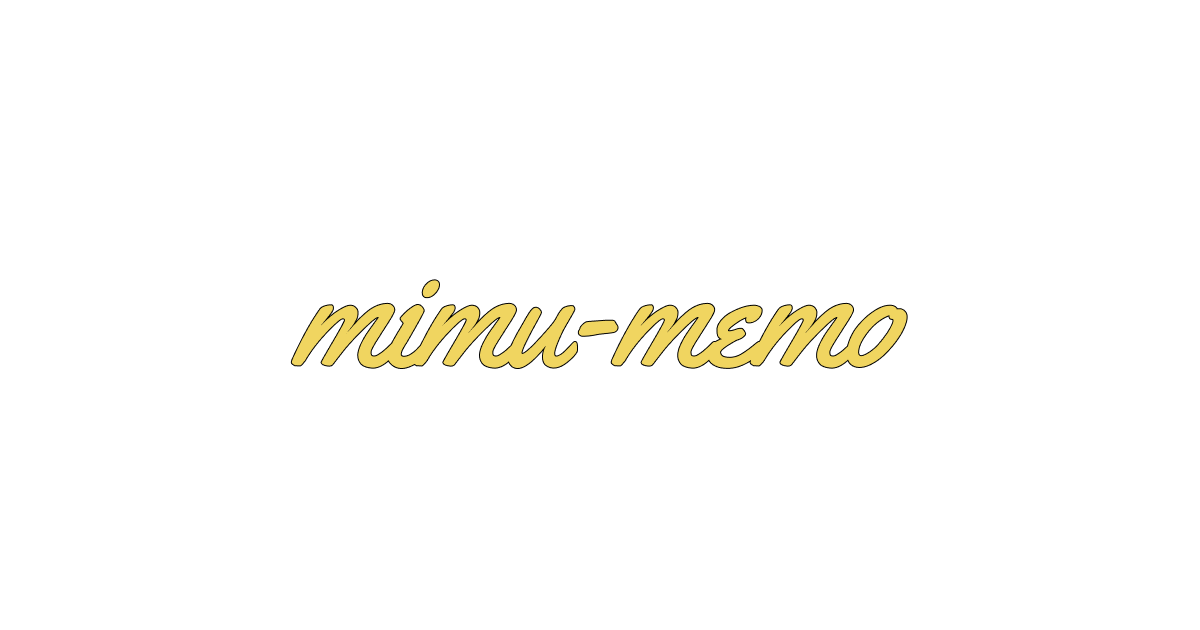
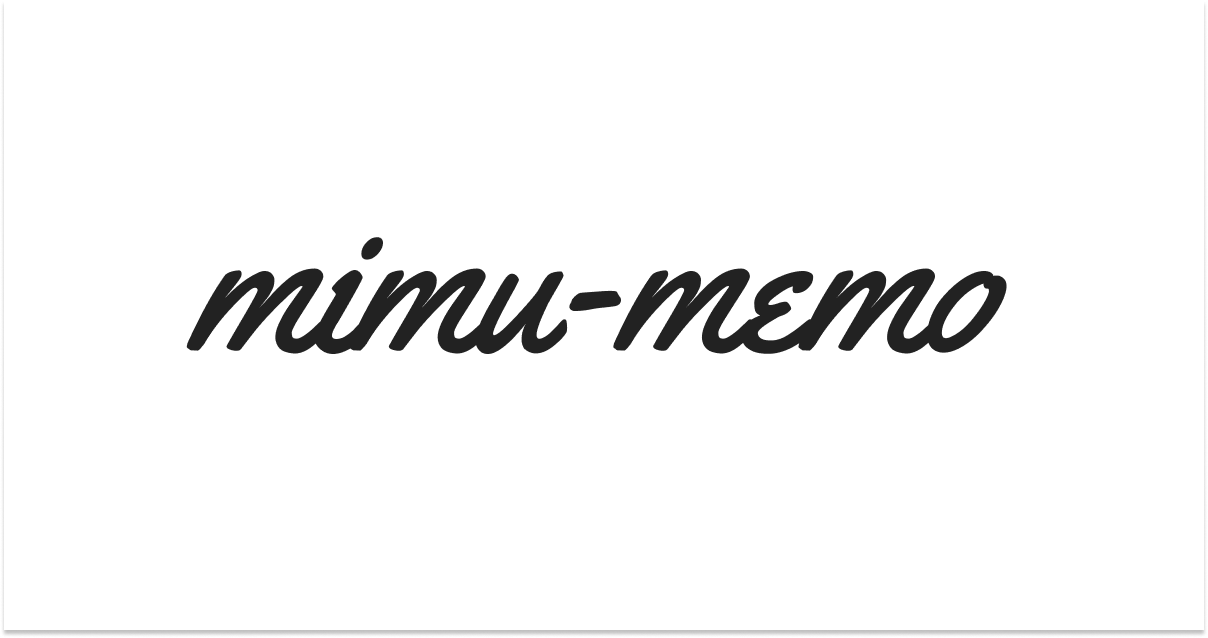
add gradient bg color

Changed region(s): [[0.1542, 0.3619, 0.8325, 0.6032], [0.0, 0.9651, 1.0, 0.9952]]

diff --git a/src/styles/_utils.scss b/src/styles/_utils.scss
@@ -142,3 +142,18 @@ $mappedBreakpoint: (
       vars.$black-400;
   }
 }
+
+%gradient-bg {
+  // NOTE: https://uigradients.com/
+  background: #ece9e6; /* fallback for old browsers */
+  background: -webkit-linear-gradient(
+    to left,
+    #ffffff,
+    #ece9e6
+  ); /* Chrome 10-25, Safari 5.1-6 */
+  background: linear-gradient(
+    to left,
+    #ffffff,
+    #ece9e6
+  ); /* W3C, IE 10+/ Edge, Firefox 16+, Chrome 26+, Opera 12+, Safari 7+ */
+}

diff --git a/astro.config.ts b/astro.config.ts
@@ -13,4 +13,7 @@ export default defineConfig({
   },
   output: 'server',
   adapter: vercel(),
+  server: {
+    host: true,
+  },
 })
